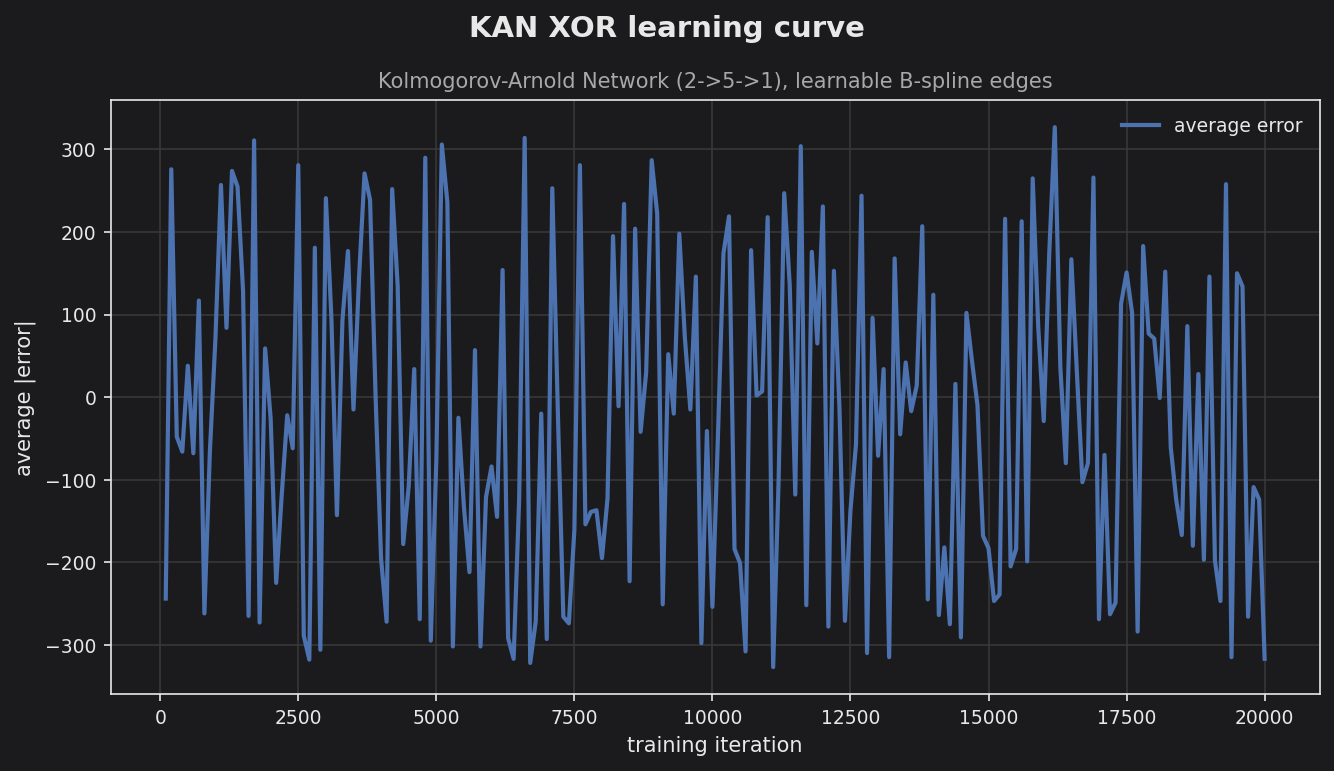
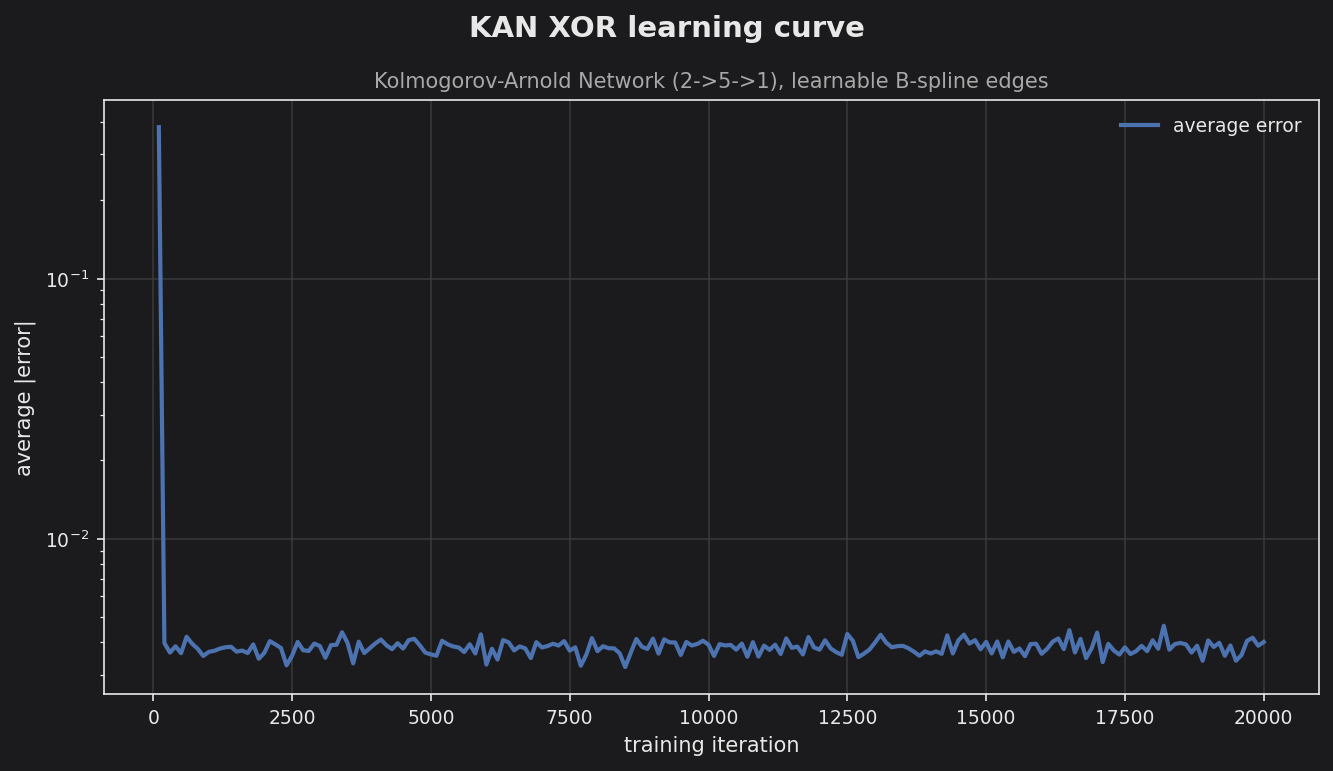
Fix KAN XOR example convergence + clean the learning-curve metric
The KAN XOR demo never converged ("Training did not complete successfully") and
its plotted curve swung +/-300. Two real bugs plus a metric artifact:

- Diverging training: the initializer drew weights from an asymmetric [-1, 2)
  range (one+one-negOne = 3*one) and used a high 0.25 momentum, and Q8.8 lacked
  the range for B-spline training. Fix: symmetric [-0.5, 0.5] init, lr 0.0625 ->
  0.03125, momentum 0.25 -> 0.0625, and ValueType Q8.8 -> Q16.16 (the
  frac-relative rate constants keep the effective rates unchanged; SiLU sigmoid
  LUT macro bumped to 16.16). Now converges: avg |error| 0.38 -> ~0.0035,
  "Training completed successfully."
- Noisy plot: the CSV logged a QValue error accumulator that summed raw
  fixed-point integers and wrapped. Log a clean double average-|error| instead;
  plot.py uses a log-y axis so the convergence is unmistakable.

Re-rendered the dark docs plot.

diff --git a/examples/kan_xor/kan_xornet.h b/examples/kan_xor/kan_xornet.h
@@ -30,9 +30,12 @@
 #include "qformat.hpp"
 #include "kan.hpp"
 
-// Q-Format value type
-static const size_t NUMBER_OF_FIXED_BITS = 8;
-static const size_t NUMBER_OF_FRACTIONAL_BITS = 8;
+// Q-Format value type. Q16.16: KAN B-spline training needs more range and
+// precision than Q8.8 provides (Q8.8 saturates and fails to converge). The
+// learning-rate constants below are defined relative to NumberOfFractionalBits,
+// so the effective rates are unchanged -- only the numeric headroom grows.
+static const size_t NUMBER_OF_FIXED_BITS = 16;
+static const size_t NUMBER_OF_FRACTIONAL_BITS = 16;
 typedef tinymind::QValue<NUMBER_OF_FIXED_BITS, NUMBER_OF_FRACTIONAL_BITS, true> ValueType;
 typedef typename ValueType::FullWidthValueType FullWidthValueType;
 
@@ -49,14 +52,14 @@ struct RandomNumberGenerator
 {
     static ValueType generateRandomWeight()
     {
-        // Generate a random number between -1..1 in the Q Format full width type
-        const FullWidthValueType weight = (rand() %
-                                                    (tinymind::Constants<ValueType>::one().getValue() +
-                                                     tinymind::Constants<ValueType>::one().getValue() -
-                                                     tinymind::Constants<ValueType>::negativeOne().getValue())) +
-                                                     tinymind::Constants<ValueType>::negativeOne().getValue();
-
-        return weight;
+        // Symmetric small init in [-0.5, 0.5] (raw Q-format units). Small,
+        // symmetric weights keep the KAN B-spline training stable -- the old
+        // formula produced an asymmetric [-1, 2) range that diverged.
+        const FullWidthValueType half =
+            tinymind::Constants<ValueType>::one().getValue() / 2;
+        const FullWidthValueType weight =
+            (static_cast<FullWidthValueType>(rand()) % (2 * half + 1)) - half;
+        return ValueType(weight);
     }
 };
 
@@ -88,15 +91,15 @@ struct KanNetworkInitializer
 
     static ValueType initialLearningRate()
     {
-        // Lower learning rate for KAN: ~0.0625 in Q8.8
-        static const ValueType rate(0, (1 << (ValueType::NumberOfFractionalBits - 4)));
+        // ~0.03125 (lower than the old 0.0625 for stable convergence).
+        static const ValueType rate(0, (1 << (ValueType::NumberOfFractionalBits - 5)));
         return rate;
     }
 
     static ValueType initialMomentumRate()
     {
-        // Moderate momentum
-        static const ValueType rate(0, (1 << (ValueType::NumberOfFractionalBits - 2)));
+        // ~0.0625 momentum (the old 0.25 was too high and drove divergence).
+        static const ValueType rate(0, (1 << (ValueType::NumberOfFractionalBits - 4)));
         return rate;
     }
 

diff --git a/examples/kan_xor/kan_xor.cpp b/examples/kan_xor/kan_xor.cpp
@@ -65,6 +65,10 @@ int main(const int argc, char *argv[])
     ValueType error;
     ValueType avgError(0U);
     ValueType lastAvgError(0U);
+    // Clean floating-point error accumulator for the CSV: the QValue avgError
+    // above sums raw fixed-point integers and can wrap, producing a noisy curve.
+    double errSumD = 0.0;
+    const double fracScale = static_cast<double>(1 << ValueType::NumberOfFractionalBits);
 
     for (unsigned i = 0; i < TRAINING_ITERATIONS; ++i)
     {
@@ -81,11 +85,16 @@ int main(const int argc, char *argv[])
         results << error << std::endl;
 
         avgError += abs(error.getValue());
+        {
+            double e = static_cast<double>(error.getValue()) / fracScale;
+            errSumD += (e < 0.0) ? -e : e;
+        }
         if ((i + 1) % NUM_SAMPLES_AVG_ERROR == 0)
         {
             avgError = avgError / ValueType(NUM_SAMPLES_AVG_ERROR, 0);
             cout << "Iteration: " << (i + 1) << " Average Error: " << avgError << endl;
-            curve << (i + 1) << "," << avgError << std::endl;
+            curve << (i + 1) << "," << (errSumD / NUM_SAMPLES_AVG_ERROR) << std::endl;
+            errSumD = 0.0;
             lastAvgError = avgError;
             avgError = ValueType(0U);
         }

diff --git a/examples/kan_xor/plot.py b/examples/kan_xor/plot.py
@@ -39,7 +39,7 @@ def main():
         "KAN XOR learning curve",
         "Kolmogorov-Arnold Network (2->5->1), learnable B-spline edges")
     tp.line(ax, cols["iteration"], {"average error": cols["avg_error"]},
-            xlabel="training iteration", ylabel="average |error|")
+            xlabel="training iteration", ylabel="average |error|", logy=True)
     tp.finish(fig, tp.png_for(CSV))
 
 